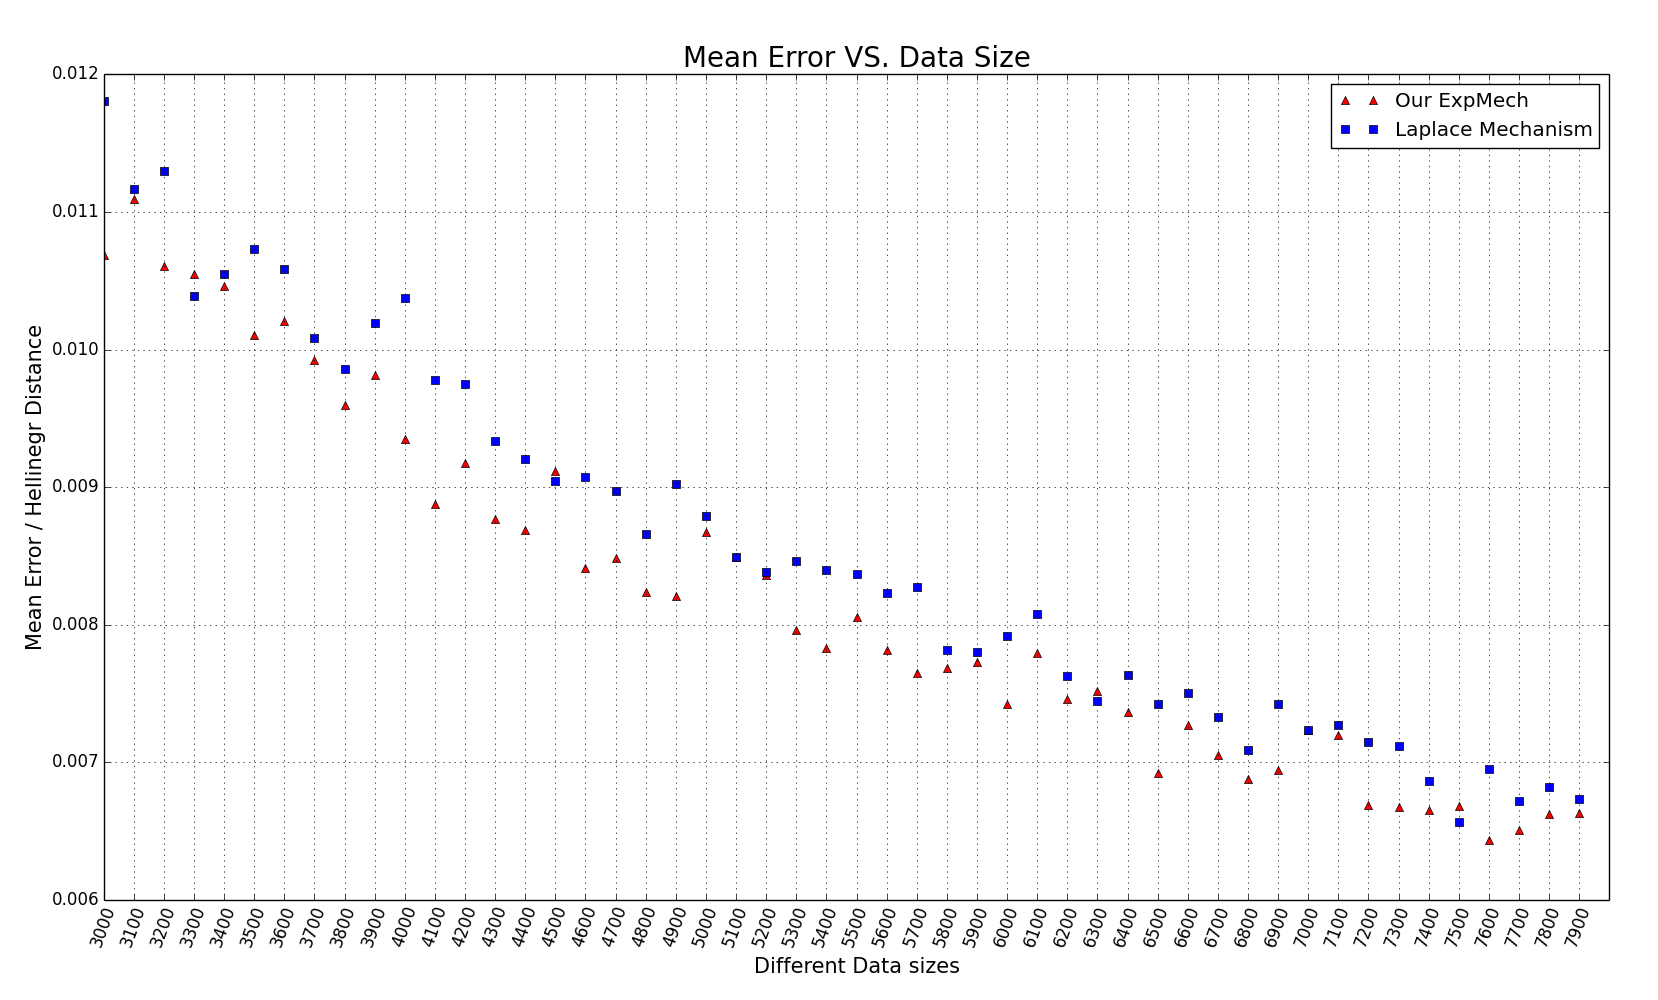
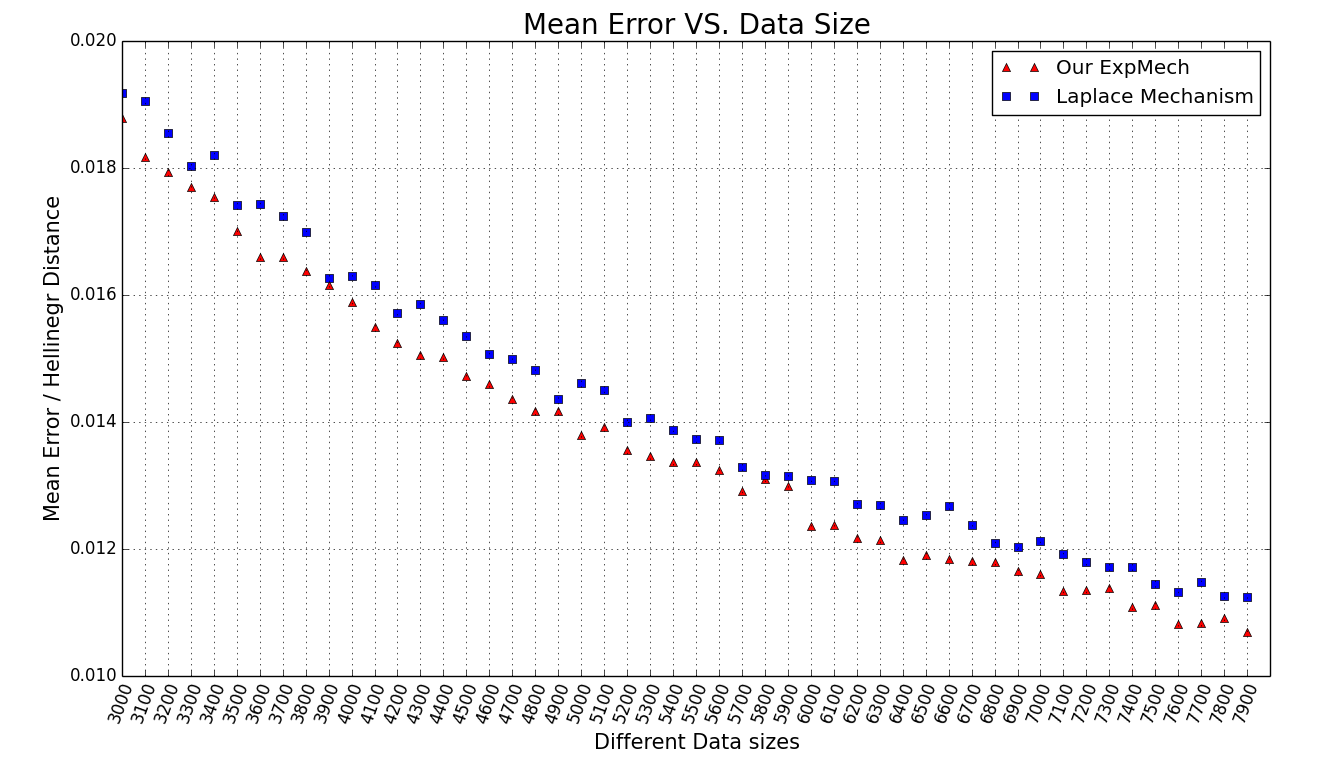
update author orders

diff --git a/main-sketch.tex b/main-sketch.tex
@@ -20,11 +20,6 @@
 \title{Tailoring Differentially Private Bayesian Inference to Distance Between Distributions}
 \subtitle{Extended Abstract}
 
-\author{Jiawen Liu}
-\affiliation{%
-  \institution{University at Buffalo, SUNY}
-}
-\email{jliu223@buffalo.edu}
 
 \author{Mark Bun}
 \affiliation{%
@@ -44,6 +39,12 @@
   \institution{University at Buffalo, SUNY}
 }
 \email{gaboardi@buffalo.edu}
+
+\author{Jiawen Liu}
+\affiliation{%
+  \institution{University at Buffalo, SUNY}
+}
+\email{jliu223@buffalo.edu}
 
 \begin{abstract} Bayesian inference is a statistical method which
 allows one to derive a \emph{posterior} distribution over a parameter,

diff --git a/dp_bayesian_inference_model_with_dirichlet_prior_epsilon_study.py b/dp_bayesian_inference_model_with_dirichlet_prior_epsilon_study.py
@@ -1051,7 +1051,7 @@ if __name__ == "__main__":
 	x2 = [2,18]
 	observation = [5,5,5]
 	epsilons = numpy.arange(0.1, 2, 0.1)
-	datasizes = [i*200 for i in range(70,100)]#[300] #[8,12,18,24,30,36,42,44,46,48]#,50,52,54,56,58,60,62,64,66,68,70,72,74,76,78,80]
+	datasizes = [i*100 for i in range(30,80)]#[300] #[8,12,18,24,30,36,42,44,46,48]#,50,52,54,56,58,60,62,64,66,68,70,72,74,76,78,80]
 	percentage = [0.1,0.9]
 	datasets = gen_datasets(percentage, datasizes)
 	priors = [Dir([4*i,4*i,4*i]) for i in range(5,20)]
